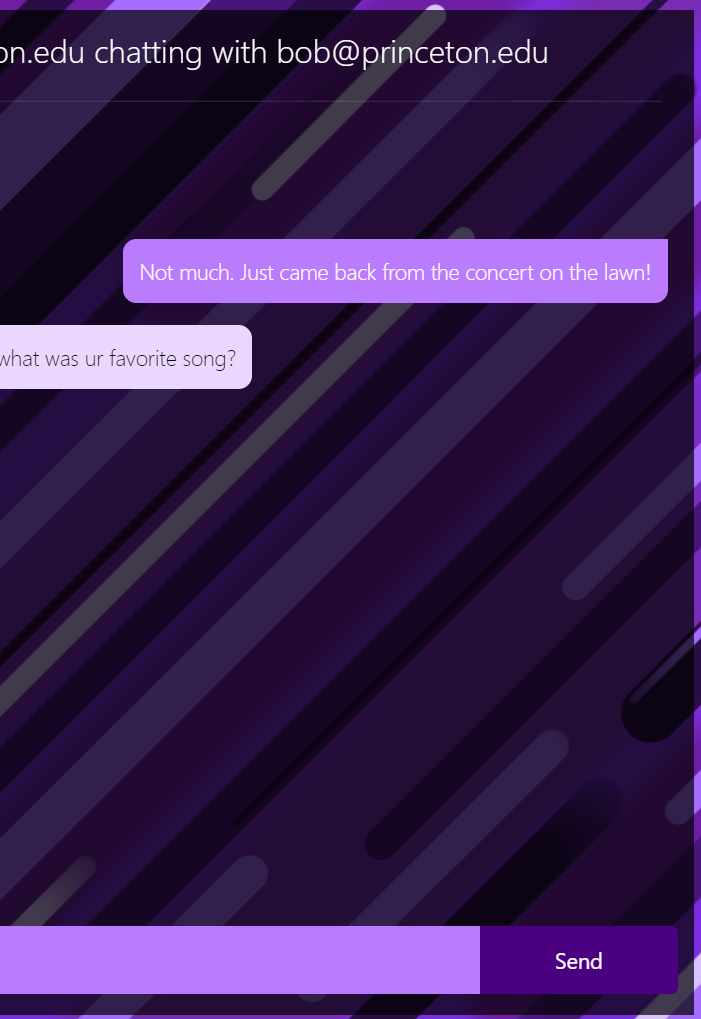
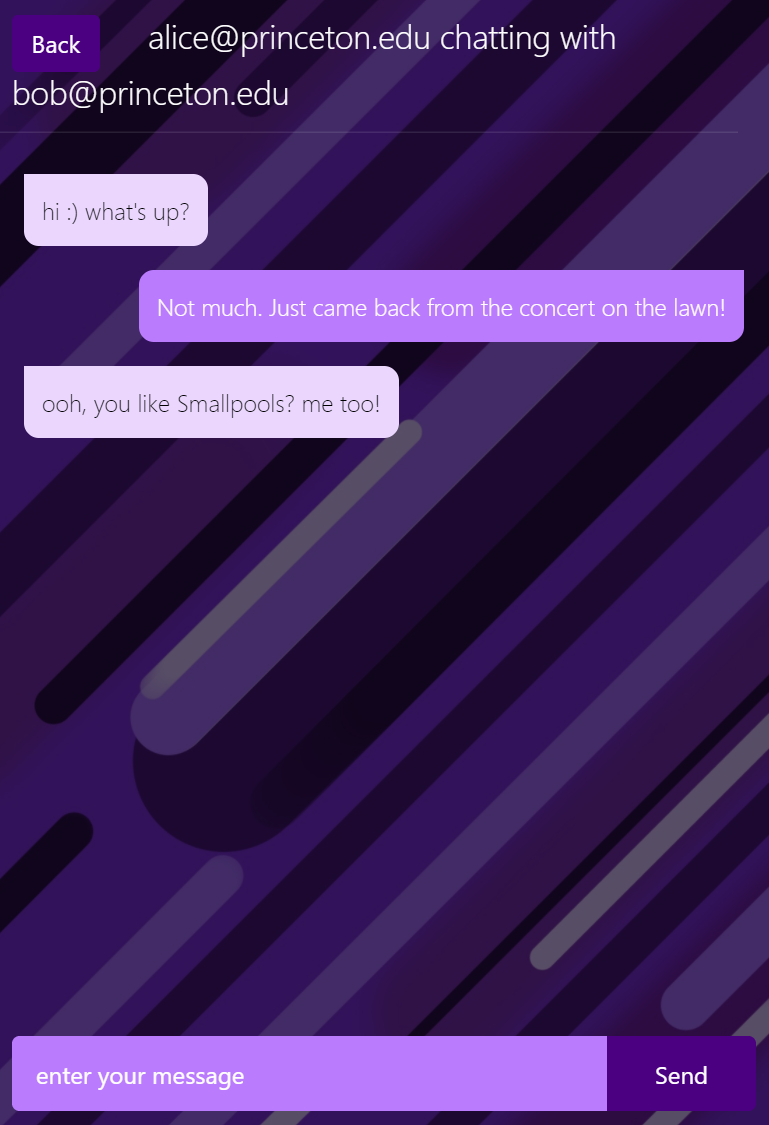
Updated Welcome page

diff --git a/client/src/components/App.jsx b/client/src/components/App.jsx
@@ -1,17 +1,17 @@
 import React, { Component } from 'react';
 import {
-  BrowserRouter as Router, // Switch, Route, Redirect,
+  BrowserRouter as Router, Switch, Route, Redirect,
 } from 'react-router-dom';
 import 'bootstrap/dist/css/bootstrap.min.css';
 import Container from 'react-bootstrap/Container';
 import Row from 'react-bootstrap/Row';
 
-// import Login from './Login';
-// import CreateAccount from './CreateAccount';
-// import Home from './Home';
-// import VerifyEmail from './VerifyEmail';
-// import ForgotPassword from './ForgotPassword';
-// import ResetPassword from './ResetPassword';
+import Login from './Login';
+import CreateAccount from './CreateAccount';
+import Home from './Home';
+import VerifyEmail from './VerifyEmail';
+import ForgotPassword from './ForgotPassword';
+import ResetPassword from './ResetPassword';
 import Header from './Header';
 import Welcome from './Welcome';
 import { accountService } from '../services';
@@ -49,8 +49,7 @@ class App extends Component {
             <Header className="vh-15" email={email} />
             <Container className="main-content min-vh-85 App">
               <Row className="min-vh-85 justify-content-center align-items-center">
-                <Welcome />
-                {/* <Switch>
+                <Switch>
                   <Route exact path="/">
                     {email ? <Redirect to="/home" /> : <Welcome />}
                   </Route>
@@ -64,7 +63,7 @@ class App extends Component {
                   <Route path="/forgot-password" component={ForgotPassword} />
                   <Route path="/reset-password/:token" component={ResetPassword} />
                   <Route path="/verify-email/:token" component={VerifyEmail} />
-                </Switch> */}
+                </Switch>
               </Row>
             </Container>
           </Router>

diff --git a/client/src/components/Welcome.jsx b/client/src/components/Welcome.jsx
@@ -1,12 +1,11 @@
 import React, { PureComponent } from 'react';
-// import { Link } from 'react-router-dom';
-// import Button from 'react-bootstrap/Button';
+import { Link } from 'react-router-dom';
+import Button from 'react-bootstrap/Button';
 import Row from 'react-bootstrap/Row';
 import Col from 'react-bootstrap/Col';
 
-import Clock from './Countdown';
 import './Welcome.css';
-// import exampleChat from '../assets/example_chat.png';
+import exampleChat from '../assets/example_chat.png';
 
 class Welcome extends PureComponent {
   render() {
@@ -26,27 +25,21 @@ class Welcome extends PureComponent {
               Currently deployed at Carnegie Mellon University and Princeton University.
             </p>
           </div>
-          <div className="welcome-section">
-            <h3 className="intro-medium">
-              Coming soon...
-            </h3>
-            <Clock />
-          </div>
-          {/* <span className="section">
+          <span className="section">
             <Link to="login">
               <Button className="button-link" variant="light" size="lg">Log In</Button>
             </Link>
             <Link to="create-account">
               <Button className="button-link" variant="light" size="lg">Create Account</Button>
             </Link>
-          </span> */}
+          </span>
         </Col>
         <Col className="welcome-col">
-          {/* <img
+          <img
             alt="Example Chat"
             src={exampleChat}
             className="example-chat mx-auto d-block"
-          /> */}
+          />
         </Col>
       </Row>
     );
